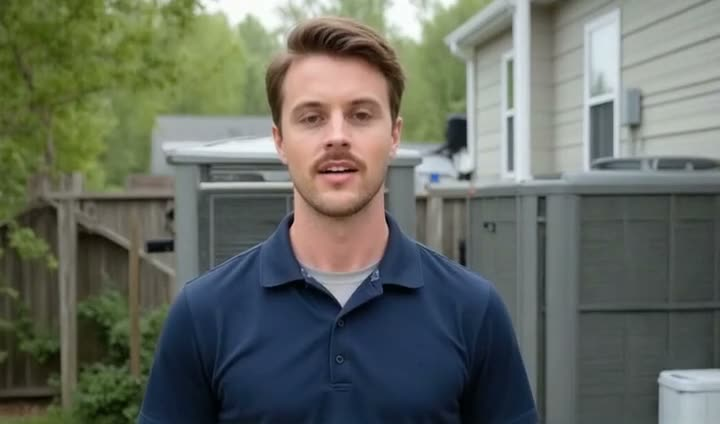
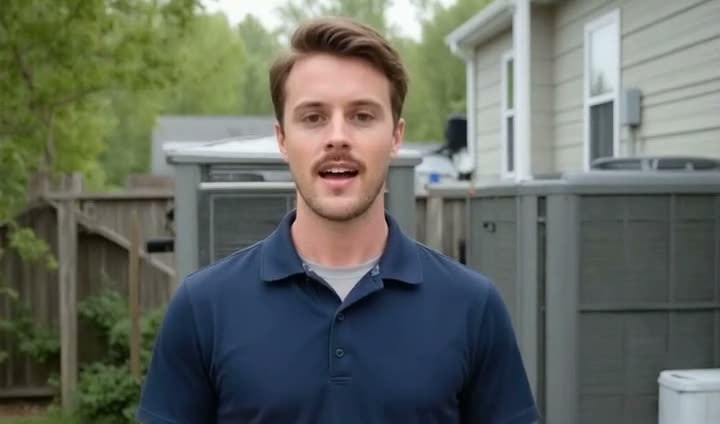
meet deck: 7 revisions — forward-only swipe, FB ad card, real ghost grid
1. Swipe is forward-only: left drags clamp at origin and never advance; the back
   button (and ArrowLeft) still go back.
2/3. Re-rendered the Tyler clip. HeyGen's TTS warm-up was compressing the FIRST
   phrase (speech began at 0.125s with the name crammed into ~0.5s), which is why
   the open sounded like a different voice — added a 'Hey...' lead-in to absorb it
   (onset now 0.238s with a settle beat before the name). New ending: 'keep swiping
   — or just hit that little heart button.' 11.0s.
4. 'This is you' now shows a mock Facebook ad plus an Ads-Manager strip:
   Spend $1,000 / Revenue $1,200 / ROAS 1.2x (highlighted).
5. Replaced the blurred faces with the trade pages' real visitor-grid animation:
   100 ghosts populate, 2 convert ghost->check->person, the other 98 get X'd out
   and vanish. Replays on each visit to the card.
6. Guide badges -> 100% Legal / Bank-Level Consent / Owned, Exclusive Leads /
   Near Realtime (card 1's bio line updated to match).
7. Plan step 3 -> 'You get their email address.'

Two CSS bugs found porting the grid: .lc relied on cellIn's fill-mode to stay
visible (so the 2 survivors blanked out), and .mcr-leak.populate .lc out-specified
.lc-is-vanishing so vanishOut never applied. Resting state is now explicit and the
vanish rule is declared after populate. Verified end state via the Web Animations
API (force-finish): exactly 2 cells visible, 98 gone — both tools freeze the
animation clock, so screenshots alone were misleading.

diff --git a/scripts/gen_meet_intro.py b/scripts/gen_meet_intro.py
@@ -26,16 +26,21 @@ VOICE = "92071a8742744d17bc92a02baab2941f"   # Real Tyler (no emotion)
 # ~12s. Deliberately just hook -> problem -> fix -> swipe. The price ($7 a lead, never
 # resold) is NOT spoken because the profile bio sits directly under this video and already
 # says it. Ends on a dating-app joke because the deck this opens is skinned like one.
-SCRIPT = ("I'm Tyler. Ninety-eight of every hundred people who land on your site leave without a word. "
-          "You paid to get them there. Consent Resolve fixes that. "
-          "Keep swiping — I'm not a catfish.")
+# NOTE the "Hey..." lead-in: HeyGen's TTS warm-up compresses the FIRST phrase, which made
+# a cold open on "I'm Tyler" sound clipped/like a different voice (speech started at 0.125s
+# and crammed the name into ~0.5s). The throwaway opener absorbs the warm-up so the name
+# lands in his settled voice. Don't remove it.
+SCRIPT = ("Hey... I'm Tyler. Ninety-eight of every hundred people who land on your site leave "
+          "without a word. You paid to get them there. Consent Resolve fixes that. "
+          "Keep swiping — or just hit that little heart button.")
 
 # Vertical framing matters: gestures must stay inside a narrow 9:16 frame or they clip.
 MOTION = ("Warm, direct, a little playful — a founder who respects your time, talking straight to "
-          "camera on a phone screen. Head-and-shoulders, centered in a tall vertical frame. A small "
-          "dismissive shrug on 'leave without a word'. Ends with a grin on the catfish line. Punchy "
-          "and quick — this is a twelve-second read, no wasted beats. Natural hand gestures kept "
-          "close to the body so they stay inside the narrow vertical frame — never reaching outside it.")
+          "camera on a phone screen. Head-and-shoulders, centered in a tall vertical frame. Opens "
+          "relaxed and unhurried on the greeting — settled, not rushed — then picks up pace. A small "
+          "dismissive shrug on 'leave without a word'. Ends with a grin and a light nod toward the "
+          "bottom of frame on the heart-button line. Natural hand gestures kept close to the body so "
+          "they stay inside the narrow vertical frame — never reaching outside it.")
 
 
 def api(url, body=None):
